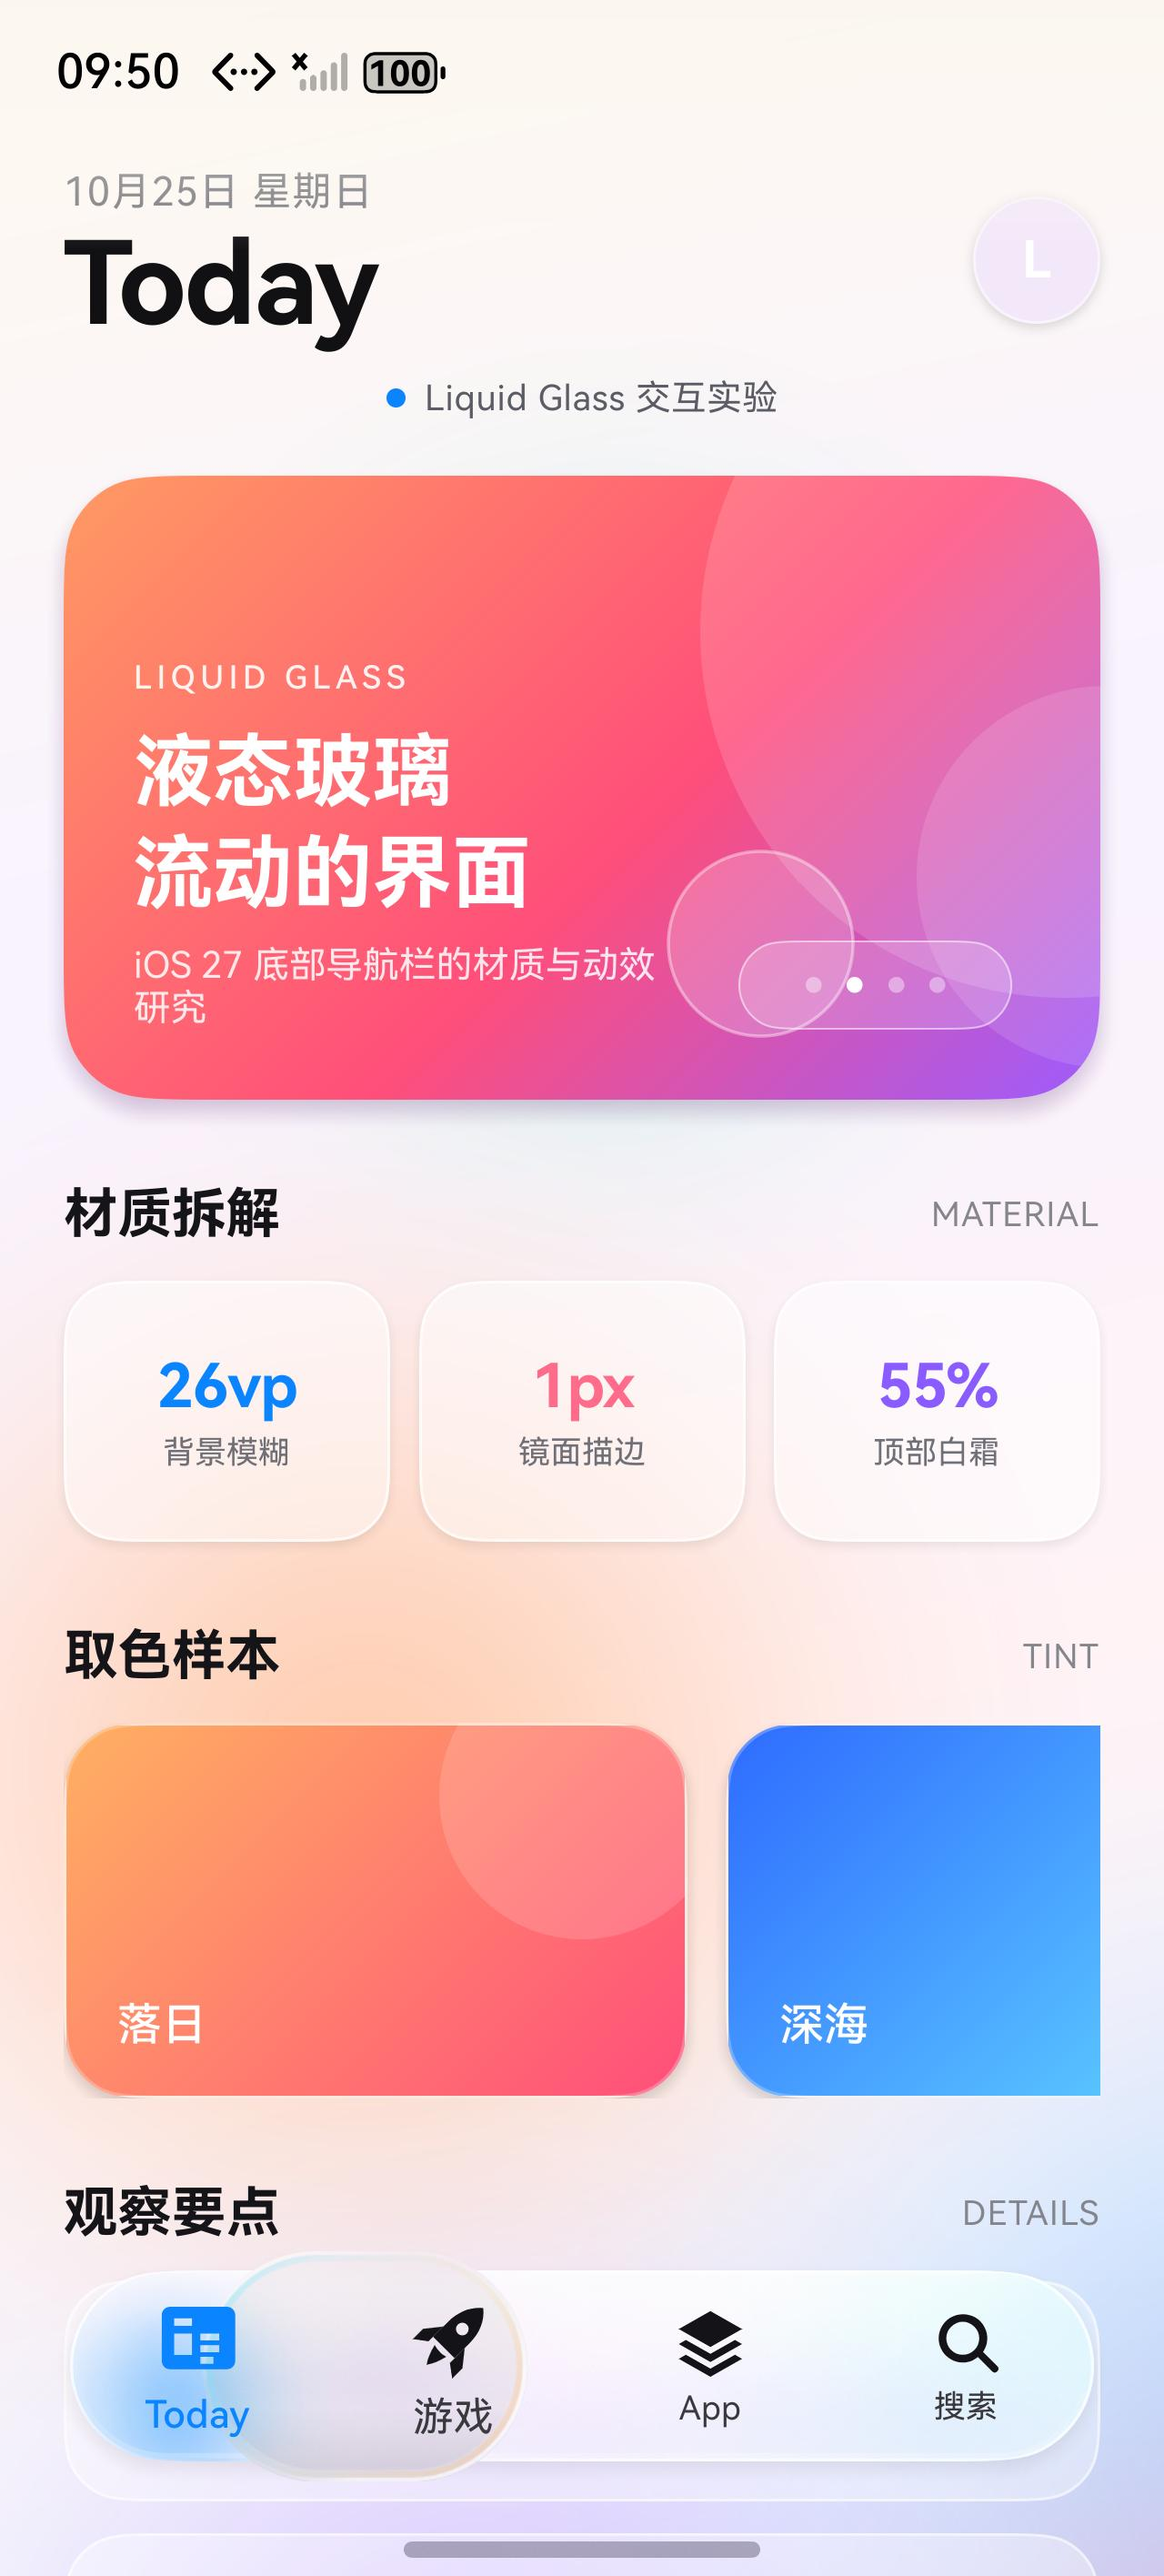
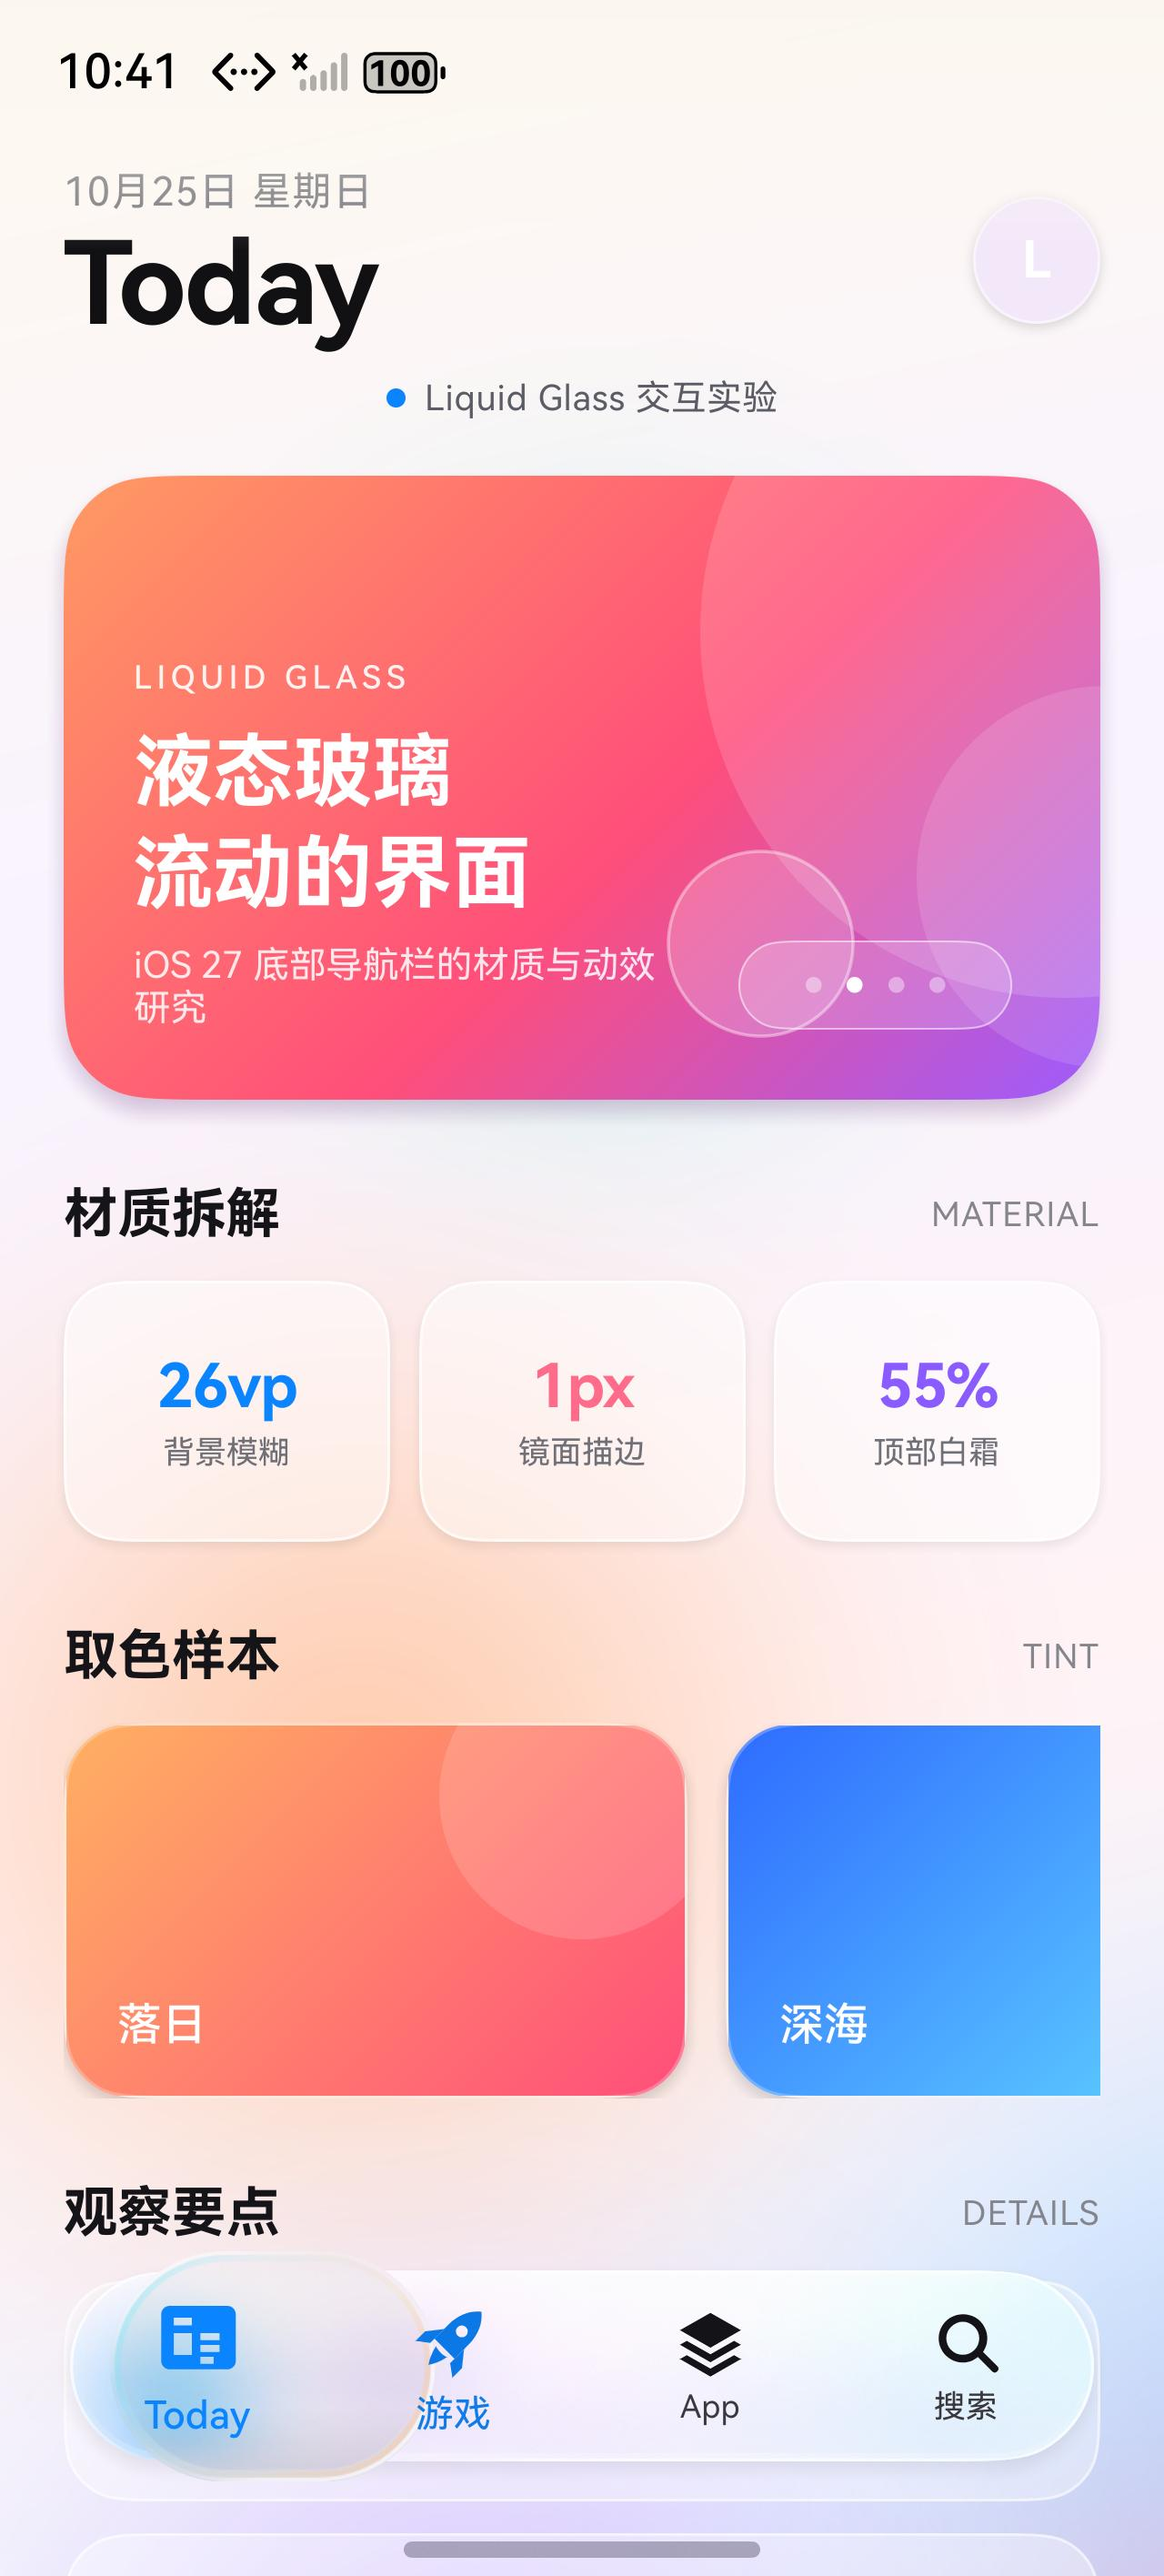
feat: tint covered tabs and snap the lens to the nearest tab
- blend a tab's ink toward the selection blue as the travelling lens covers it
- snap to the tab nearest the release point
- flow the lens home when the nearest tab is already selected
- document the tint and refresh the drag/tint screenshots

diff --git a/docs/analysis.md b/docs/analysis.md
@@ -100,6 +100,27 @@
 
 视频里的投影非常克制，只在栏底形成一条很浅的暗带。模拟器对 `shadow` 的模糊支持不稳定，因此实现里使用了很小的平台阴影；真正的“深度”主要交给底部反光和透镜内阴影。
 
+### 3.6 透镜覆盖着色
+
+参考视频里，透镜滑到另一个标签上时，被它盖住的图标与文字会呈现出选中蓝，离开后又回到墨色——像是玻璃本身带上了蓝墨水。鸿蒙实现没有直接给玻璃加蓝色（那会连背景一起染蓝），而是让**标签自身的墨色按到透镜中心的距离混合到 `#0A84FF`**：
+
+```ts
+private tintAmount(index: number): number {
+  if (this.selected === index) return 1;
+  const lensCenter = this.bubbleX + this.bubbleW() / 2;
+  const itemCenter = this.tabW() * (index + 0.5);
+  const distance = Math.abs(itemCenter - lensCenter);
+  const lensHalf = this.bubbleW() * this.bloomX / 2;
+  const reach = lensHalf + this.tabW() * 0.18;
+  const fade = this.tabW() * 0.12;
+  return Math.max(0, Math.min(1, (reach - distance) / fade));
+}
+```
+
+当前标签恒为 1（永远是选中蓝）；相邻标签在透镜边缘够到它的图标/文字时基本到 1（整枚变选中蓝），透镜离开后用很短的过渡退回墨色。这样只有一层文字/图标节点，不需要在动画中动态裁剪第二层图片，避免了 ArkUI 在 `clipShape` / `clip(true)` 动画期间的层级与裁剪刷新问题。
+
+> 与参考的差异：参考里是逐像素只染透镜覆盖的那一小块，这里按整枚标签做渐变；边界不是一条硬切线，而是一段随透镜移动的蓝色过渡。
+
 ---
 
 ## 4. 选中态：一颗会呼吸的玻璃透镜
@@ -111,6 +132,7 @@
 3. **边缘色散**：透镜边缘能看到很细的青、琥珀色边，模拟真实镜片的色散。
 4. **回弹**：膨胀结束后不是线性缩回，而是带过冲的弹簧；整个切换约 **0.5–0.7 s**。
 5. **位移**：透镜从旧标签“流”到新标签，途中保持膨胀，落位后收窄。
+6. **覆盖着色**：透镜经过的标签图标/文字渐变为选中蓝，离开后回到墨色。
 
 实现参数（`LiquidTabBar.ets`）：
 
@@ -163,12 +185,13 @@ ui.animateTo({
 | --- | --- | --- | --- |
 | 按下 | 130 ms | EaseOut | 图标轻微缩小（0.95），标签和图标变蓝 |
 | 按住 | 260 ms | spring(0.32, 0.78) | **导航栏不缩放，选中气泡 1.45×**，明显高出、长出栏体 |
-| 拖动 | 实时 | — | `bubbleX` 跟随手指，不吸附标签；松手落到最近标签 |
+| 拖动 | 实时 | — | `bubbleX` 跟随手指；松手按手指位置吸附到最近标签，当前标签也流回原位 |
 | 松开 | 360 ms | spring(0.42, 0.86) | 整条栏回弹到 1.0 |
 | 透镜膨胀 | 170 ms | EaseOut | 1.35 × 1.35，明显高出、长出栏体；填充与描边保持不变 |
 | 最大膨胀 | 与膨胀同步 | — | 清晰度与静止时一致；导航栏图标/文字放大 1.0–1.3×，页面内容不缩放 |
 | 透镜位移 | 640 ms | spring(0.42, 0.7) | 带过冲，途中保持膨胀 |
 | 透镜回弹 | 520 ms | spring(0.52, 0.82) | 回到 1.0，bloom 淡出 |
+| 落点吸附 | 420 / 640 ms | spring(0.46, 0.84) / spring(0.42, 0.7) | 最近是当前标签时流回原位；否则弹到最近标签 |
 | 内容切换 | 即时 | — | 标题、主视觉、主题色切换 |
 
 按住时导航栏本体保持原尺寸，选中透镜以 1.45× 膨胀（约 72.5 vp 高、102 vp 长），上下与左右都会明显超出栏体；玻璃填充与描边保持原样，放大前后清晰度一致，不会变透明。气泡下的导航栏图标/文字按到气泡中心的距离放大 1.0–1.3×，页面内容保持原尺寸。
@@ -257,8 +280,10 @@ this.bubbleX = Math.max(0, Math.min(
 ```
 
 - 四个 `TabItem` 按到气泡中心的距离放大（`itemMagnify`），所以气泡滑过时导航栏图标/文字会连续鼓起；
+- 同时按到气泡中心的距离做墨色 → 选中蓝的混合（`tintAmount`），气泡盖住哪个标签，哪个标签的图标/文字就变蓝，离开后复原；
 - 页面内容不参与任何缩放；
 - 松手时按气泡中心找最近标签，由 `selectTab` 弹到该标签；
+- **即使最近标签就是当前标签，`selectTab` 也会用 420 ms 弹簧把气泡流回原位**，所以不会出现“停在两个标签中间”的静止状态；
 - 纵向拖出栏外超过 60 vp 视为取消，气泡回到当前选中标签。
 
 ![气泡跟手流动](screenshots/bar-drag.jpg)
@@ -292,6 +317,7 @@ this.bubbleX = Math.max(0, Math.min(
 | 选中透镜 | ✅ | ✅ | 独立玻璃胶囊 |
 | 膨胀 + 弹簧位移 | ✅ | ✅ | 170 ms 膨胀 + 640 ms spring |
 | 青 / 琥珀色散 | ✅ | ✅（近似） | Canvas 双色描边 |
+| 覆盖文字/图标取色 | ✅ | ✅（按标签渐变） | 透镜经过时图标/文字变选中蓝 |
 | 真实折射 / 放大 | ✅ | ⚠ 近似 | ArkUI API 20 不暴露背景位移采样 |
 | 字体 | SF Pro | HarmonyOS Sans | 系统字体差异 |
 | Home Indicator | 系统 | 系统 | 模拟器样式不同 |
@@ -329,3 +355,5 @@ hdc -t 127.0.0.1:5555 shell aa start \
 | 切换瞬间（透镜膨胀） | App 标签 |
 | --- | --- |
 | ![bloom](screenshots/bar-bloom.jpg) | ![搜索](screenshots/app-games.jpg) |
+
+![透镜覆盖着色](screenshots/bar-tint.jpg)

diff --git a/README.md b/README.md
@@ -24,11 +24,16 @@
 | 顶部白霜 → 中部清澈 → 底部反光 | 纵向白色 `linearGradient` |
 | 镜面描边 / 高光 / 色散 | `GlassRim` Canvas 绘制 |
 | 选中透镜 | 独立玻璃胶囊，二次模糊 + 烟熏 + 内阴影 |
+| 覆盖着色 | 透镜经过的图标 / 文字渐变为选中蓝，离开后回到墨色 |
 | 膨胀 / 弹射 | `animateTo` + `curves.springMotion` |
 | 彩色背景 | 预渲染 PNG 光斑，缓慢漂移 |
 | 沉浸式 | 全屏 + `getWindowAvoidArea` 安全区 |
 
 选中切换：透镜先在 170 ms 内膨胀到 `1.35 × 1.35`，明显高出、长出导航栏；放大前后保持相同的玻璃填充、描边与清晰度，不会因为放大而变透明。**只放大导航栏自身的图标与文字**，栏后的页面内容不缩放，只保留玻璃的模糊与取色。
+
+透镜经过时，被覆盖的标签图标与文字会渐变为选中蓝：颜色按透镜中心到标签中心的距离混合，透镜离开后再退回墨色，看起来像透过一层被染成系统蓝的玻璃。落点始终吸附到最近的标签；**即使最近的就是当前标签，透镜也会流回原位，不会停在两个标签之间**。
+
+![透镜覆盖着色](docs/screenshots/bar-tint.jpg)
 
 ## 目录
 
@@ -67,13 +72,14 @@ hdc -t 127.0.0.1:5555 shell aa start \
 
 - 上下滚动：把彩色卡片滑到导航栏下方，观察取色、模糊与高光变化。
 - 点击四个标签：观察透镜的膨胀、弹射和回弹。
-- 按住标签不松手：**导航栏本身不放大**，选中气泡膨胀到 **1.45×**；气泡放大前后清晰度一致，不会变透明。**气泡下的导航栏图标/文字会随位置放大 1.0–1.3×，栏后的页面内容不缩放**；松开后气泡回弹并切页。
-- 按住后左右拖动：气泡连续跟手流动，不在标签之间吸附；松手落到最近的标签。
+- 按住标签不松手：**导航栏本身不放大**，选中气泡膨胀到 **1.45×**；气泡放大前后清晰度一致，不会变透明。**气泡下的导航栏图标/文字会随位置放大 1.0–1.3×，并渐变为选中蓝；栏后的页面内容不缩放**；松开后气泡回弹并切页。
+- 按住后左右拖动：气泡连续跟手流动；覆盖到的标签会变蓝，离开后复原。松手后**总是吸附并流动到最近的标签**，即使最近的就是当前标签也会流回原位，不会停在半路。
 
 ![按住拖动，气泡跟手流动](docs/screenshots/bar-drag.jpg)
 
 ## 已知差异
 
 - 按当前需求，本项目**只放大导航栏自身的图标/文字**，不对栏后的页面内容做折射或放大；iOS 参考里的背景折射在这里用模糊、增饱和与镜面边近似。
+- 覆盖着色按标签整体渐变，而不是逐像素只染透镜内的那一小块；ArkUI 在动画中动态裁剪图片层的层级不可靠，因此用整枚标签的颜色混合来近似。
 - 字体为 HarmonyOS Sans，而非 SF Pro。
 - 系统 Home Indicator 样式由模拟器决定。
